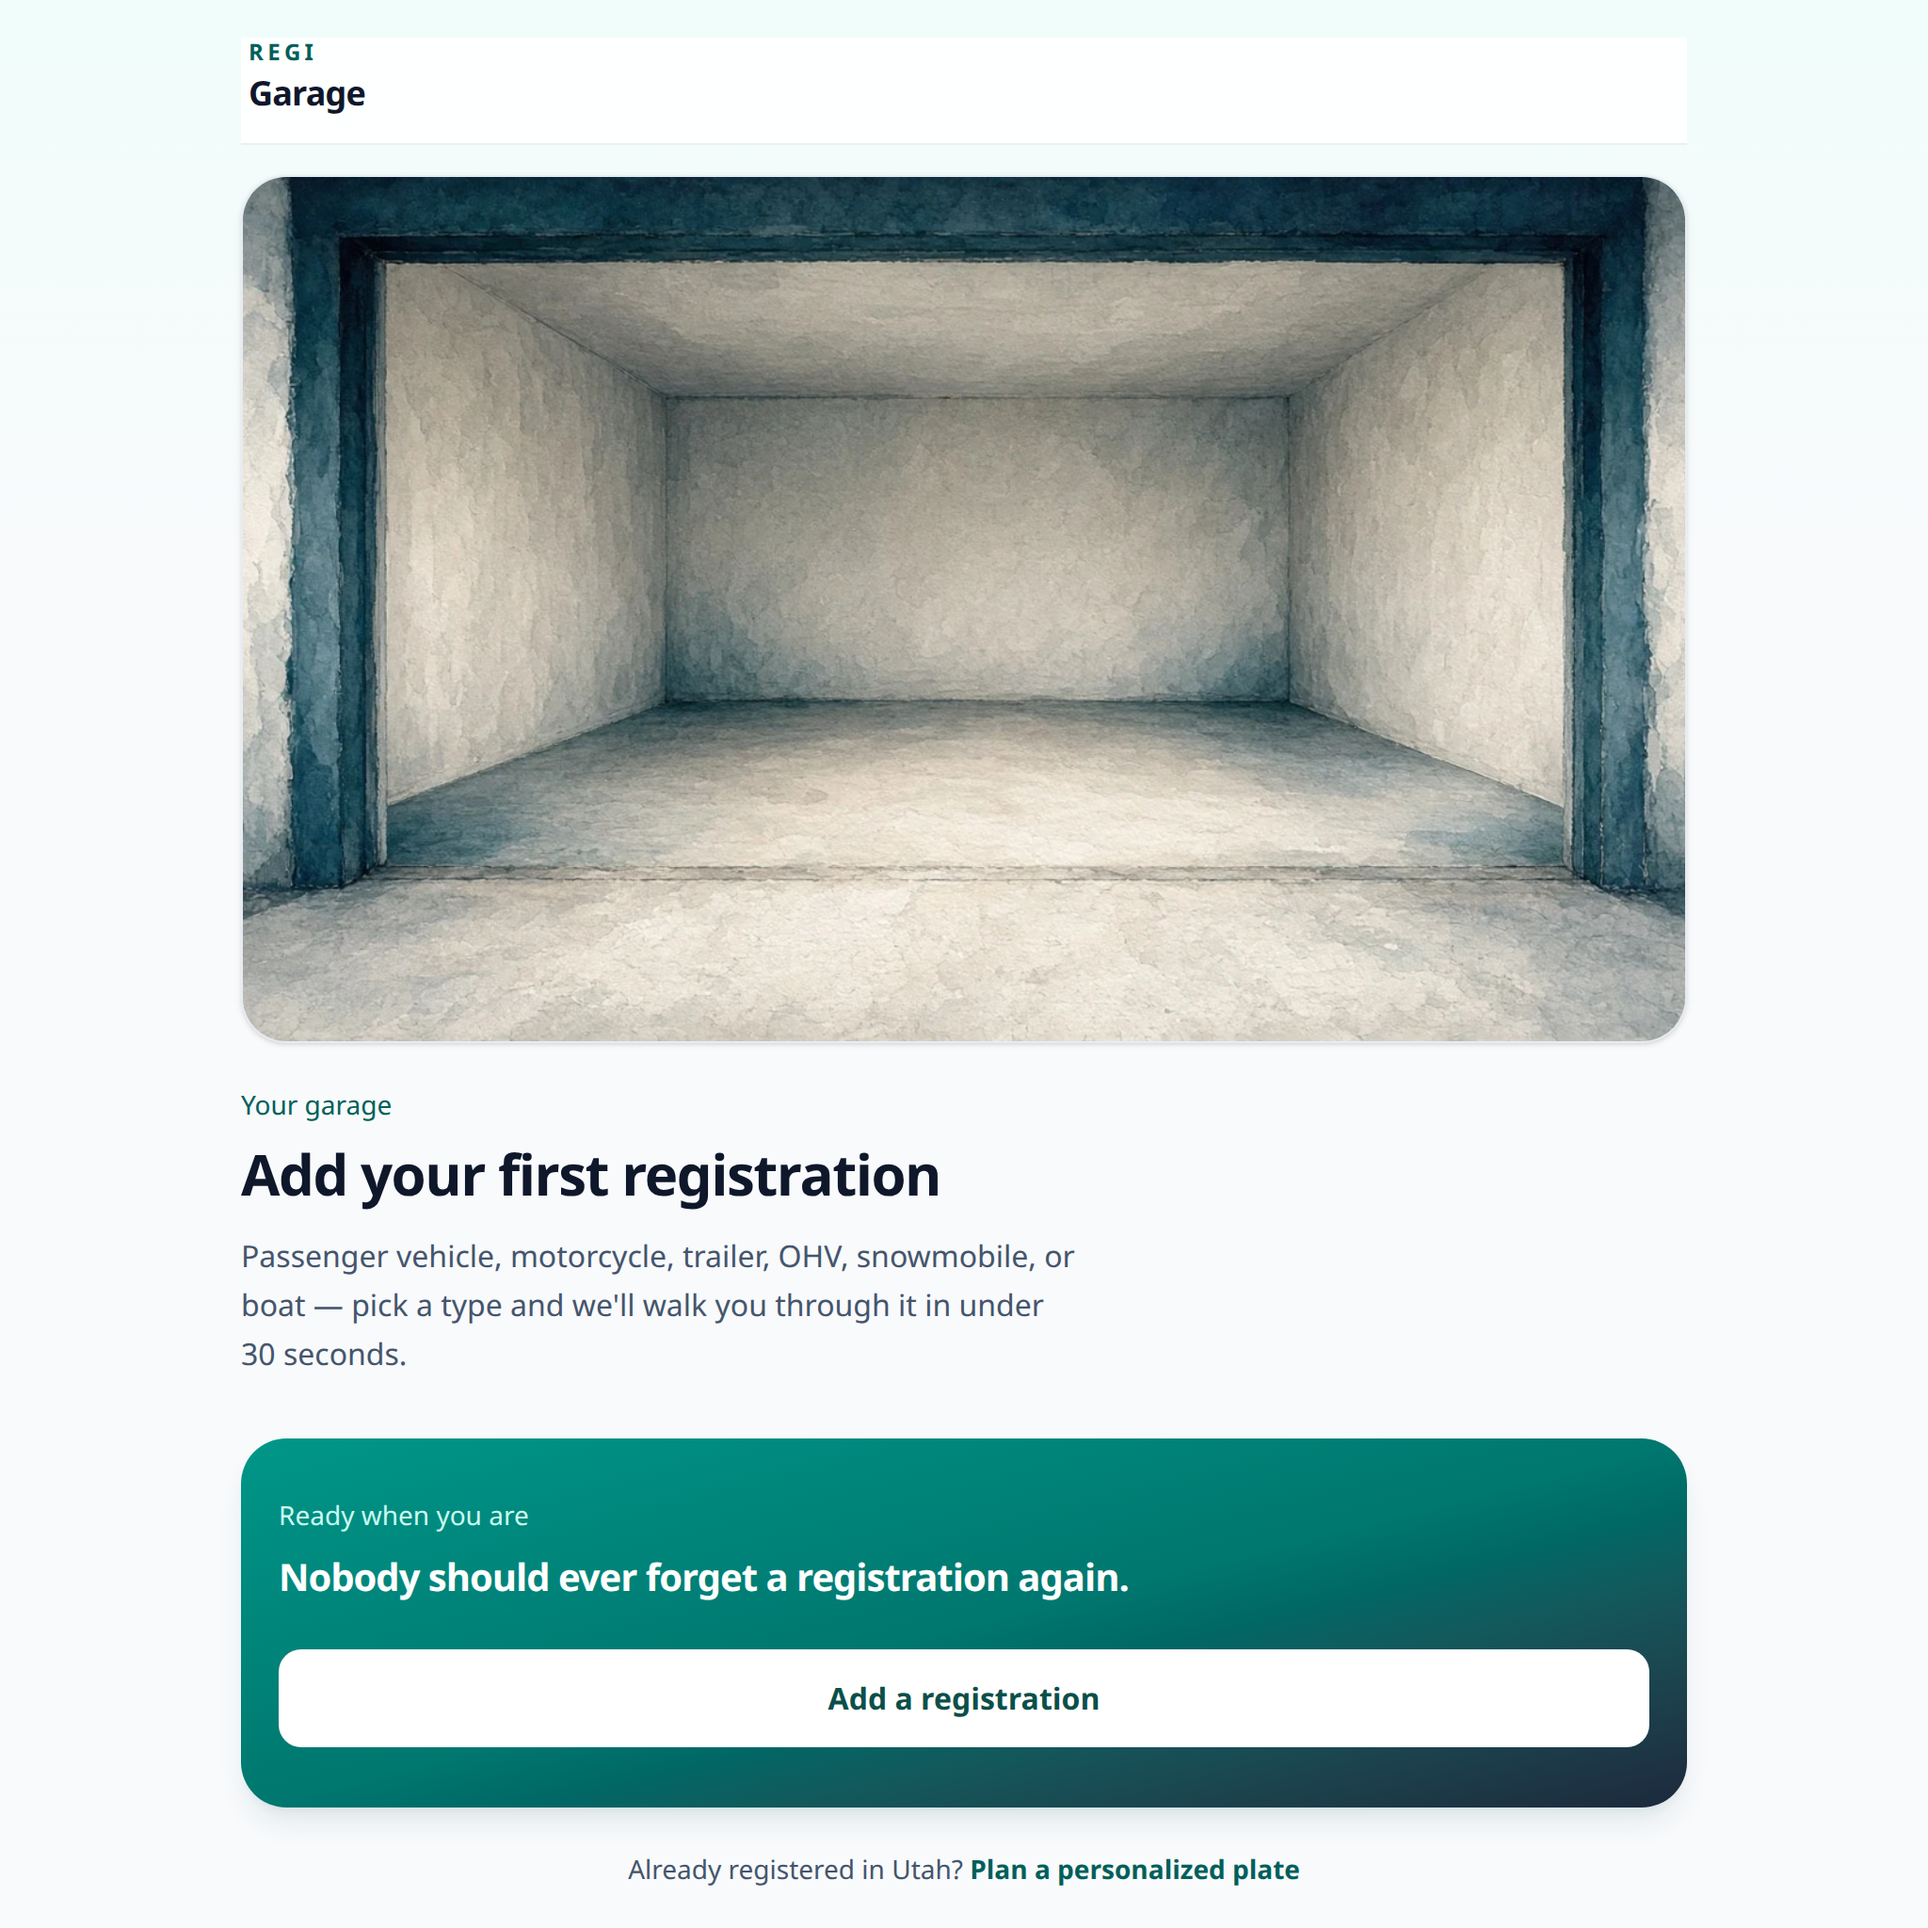
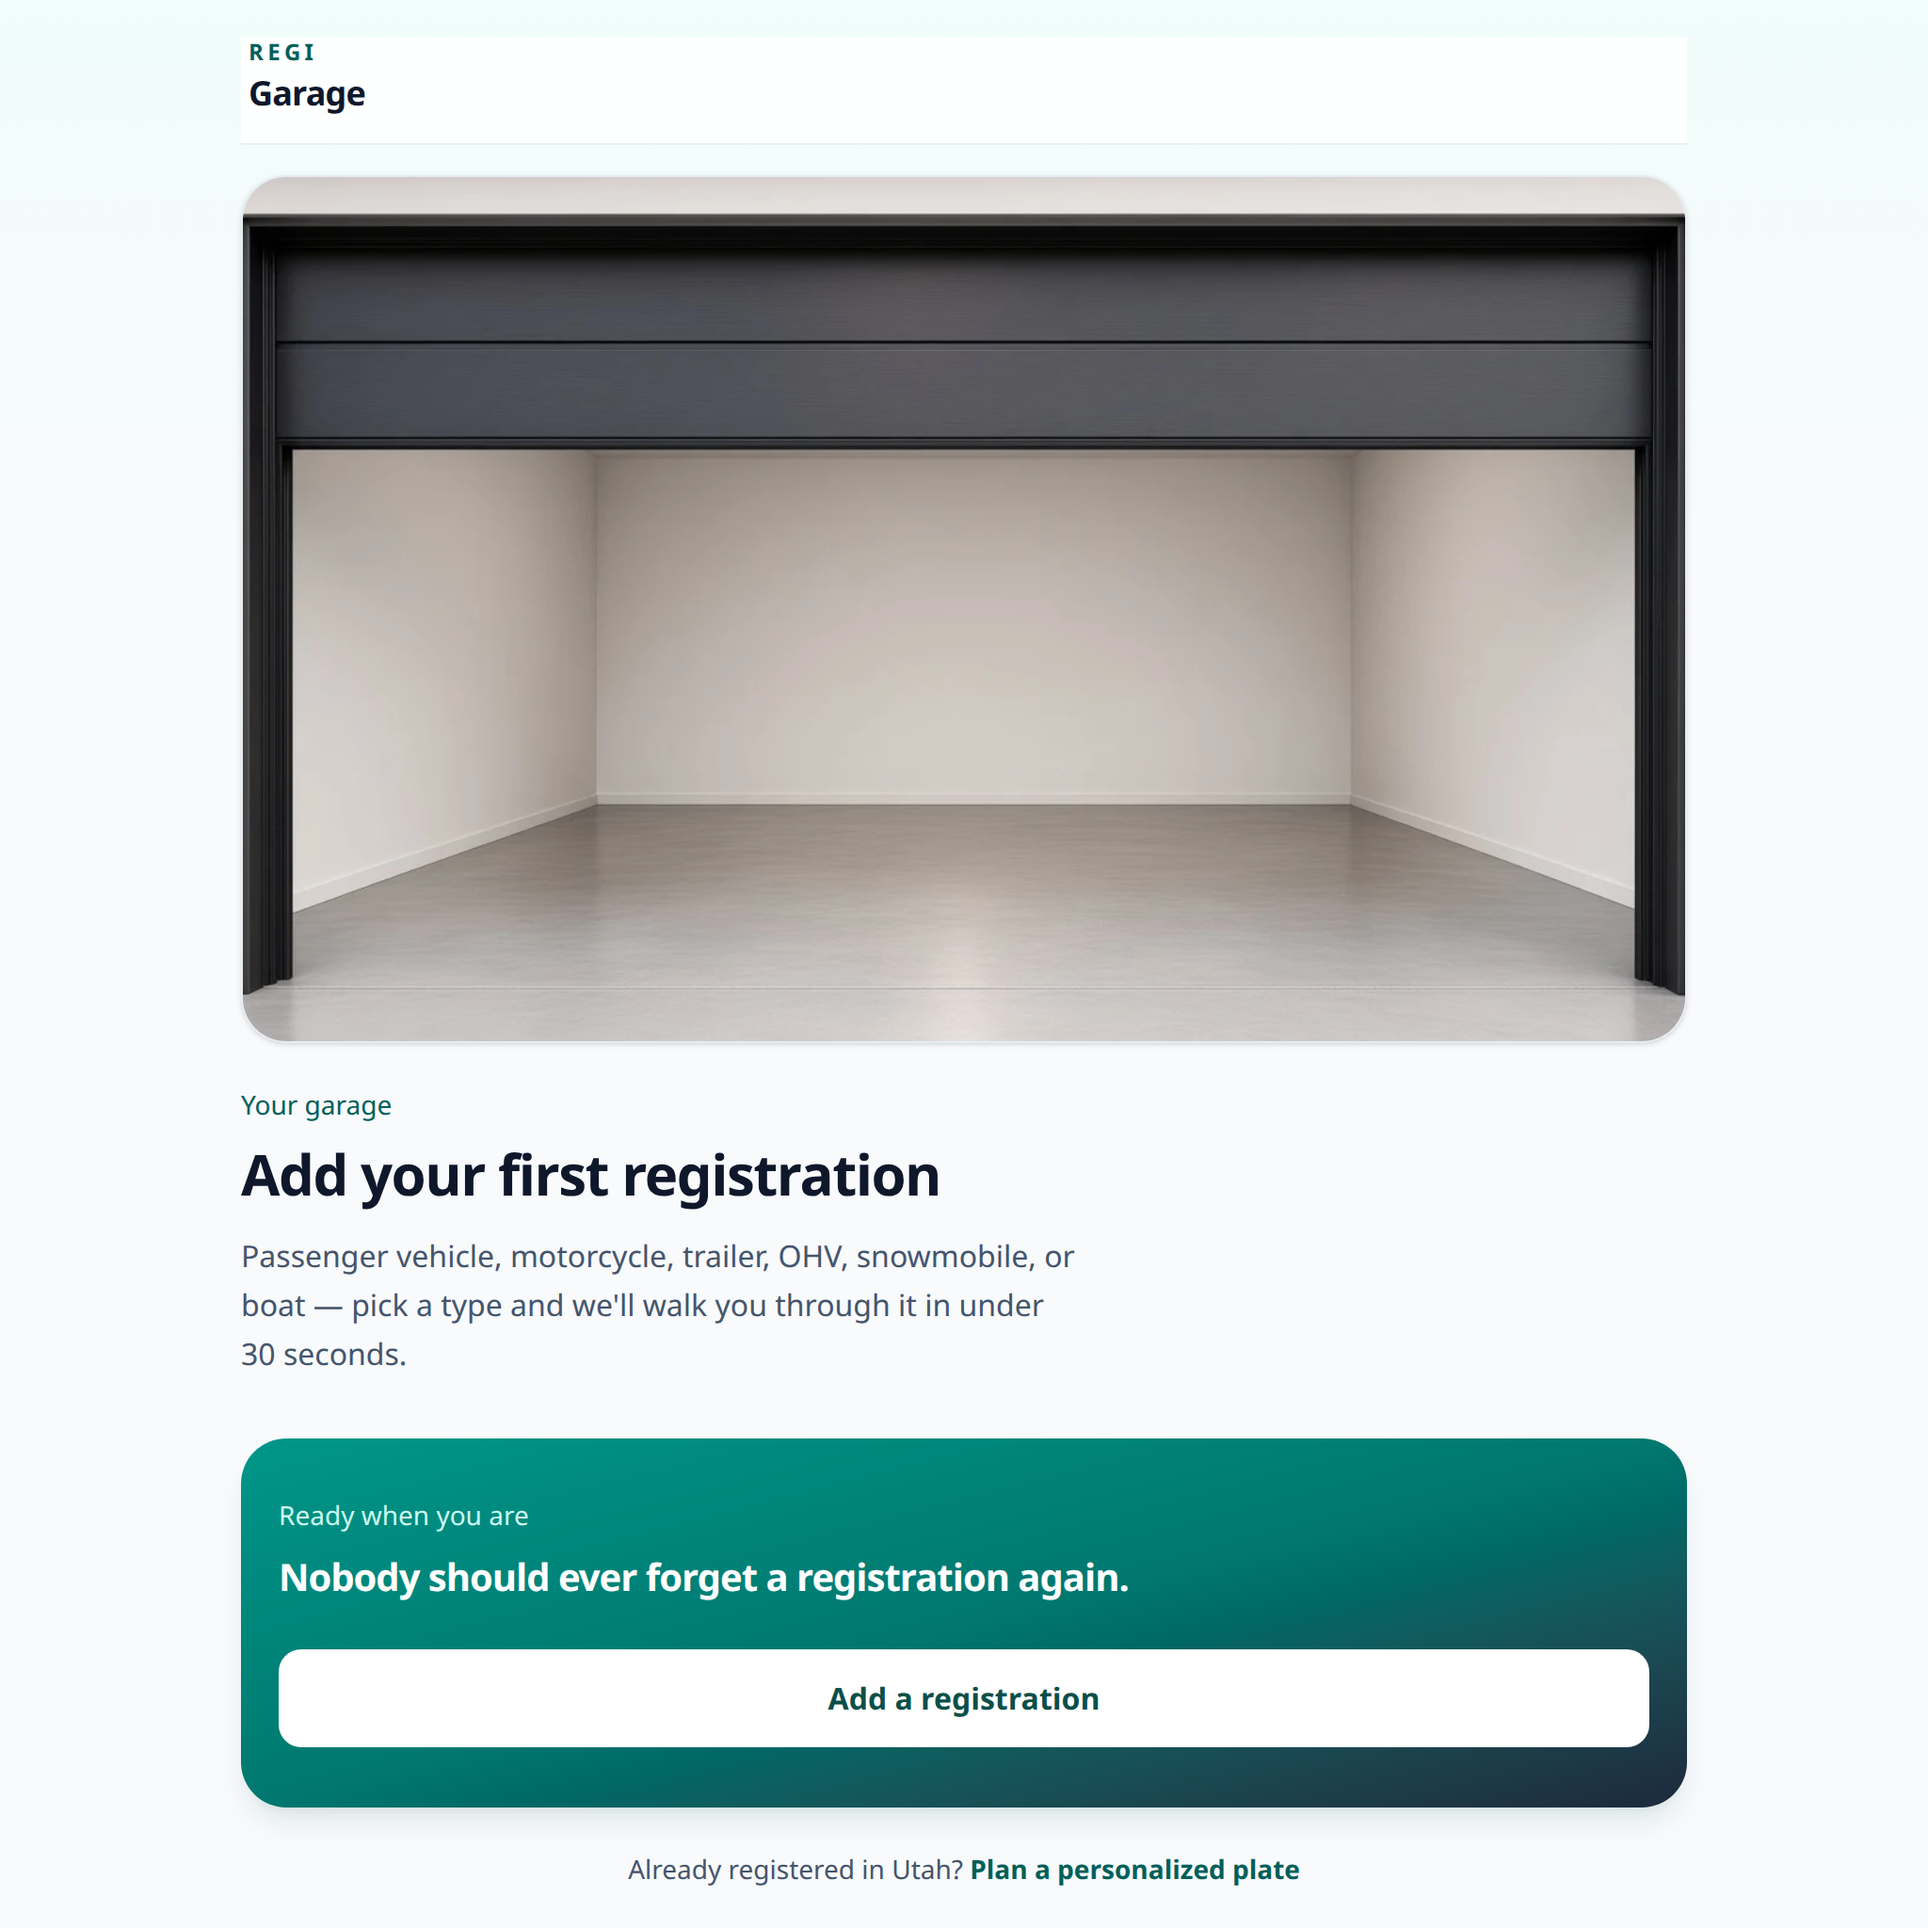
fix: realistic empty-bay art matching REGI product shots
Replace watercolor with architectural product-photo WebPs of an empty
modern garage (charcoal door, concrete, drywall). Recapture evidence.

Changed region(s): [[0.125, 0.0938, 0.875, 0.5625]]

diff --git a/src/components/garage/GarageEmptyIllustration.tsx b/src/components/garage/GarageEmptyIllustration.tsx
@@ -6,8 +6,8 @@ export const EMPTY_GARAGE_ART = {
 const ALT = "Empty garage bay ready for a first registration";
 
 /**
- * Soft painted empty-bay WebP (never SVG). Light + dark; `.dark` shows dusk.
- * No dashed stall lines, ghost vehicle, or wall doodads.
+ * Architectural empty-bay WebP (never SVG). Light + dark; `.dark` shows dusk.
+ * No watercolor, dashed stall lines, ghost vehicle, or wall doodads.
  */
 export function GarageEmptyIllustration({
   className = "",

diff --git a/docs/evidence/garage-empty-state/README.md b/docs/evidence/garage-empty-state/README.md
@@ -1,9 +1,9 @@
 # Garage empty-state illustration evidence
 
 Screenshots of `GarageEmptyState` (first-run garage, no vehicles) with a
-**soft painted** empty-bay WebP (not SVG, not the rejected dashed-stall /
-ghost-car icon look). `/garage` is auth-gated, so these were captured from
-the Vite harness that mounts the same component.
+**realistic empty-bay** WebP that matches REGI product-art materials (not
+watercolor, not SVG, not dashed-stall / ghost-car icon look). `/garage` is
+auth-gated, so these were captured from the Vite harness.
 
 Regenerate:
 
@@ -13,8 +13,8 @@ npm run capture:garage-empty-evidence
 
 What this evidence is meant to show:
 
-- Painted open-bay raster (`/images/garage/empty-bay-{light,dark}.webp`)
-- No dashed stall lines, ghost sedan, or wall doodads
+- Realistic open-bay raster (`/images/garage/empty-bay-{light,dark}.webp`)
+- Empty residential garage, no cars, clutter, people, or icon-pack doodads
 - Heading **Add your first registration**
 - Primary CTA **Add a registration** (`data-testid="add-first-registration-button"`)
 - Light and dark treatments
@@ -28,9 +28,9 @@ Use this harness, or a walk account with zero registrations.
 | File | What it shows |
 | --- | --- |
 | `empty_garage_light.png` | Full first-run empty state, light theme |
-| `empty_garage_illustration_light.png` | Painted empty-bay crop, light |
+| `empty_garage_illustration_light.png` | Empty-bay crop, light |
 | `empty_garage_cta_light.png` | Add a registration CTA |
 | `empty_garage_dark.png` | Full first-run empty state, dark theme |
-| `empty_garage_illustration_dark.png` | Painted empty-bay crop, dark |
+| `empty_garage_illustration_dark.png` | Empty-bay crop, dark |
 | `empty_garage_light_mobile.png` | Phone-width light empty state |
 | `empty_garage_light_desktop.png` | Desktop-width light empty state |
